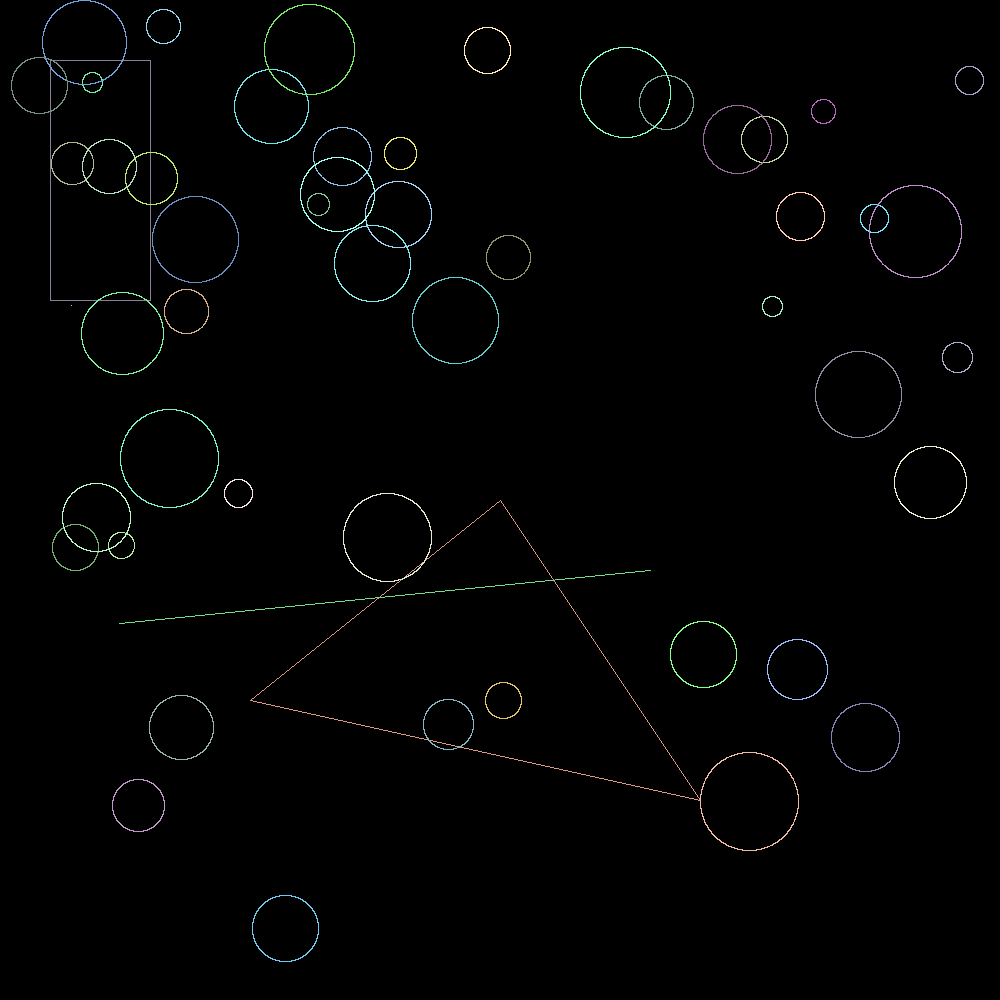
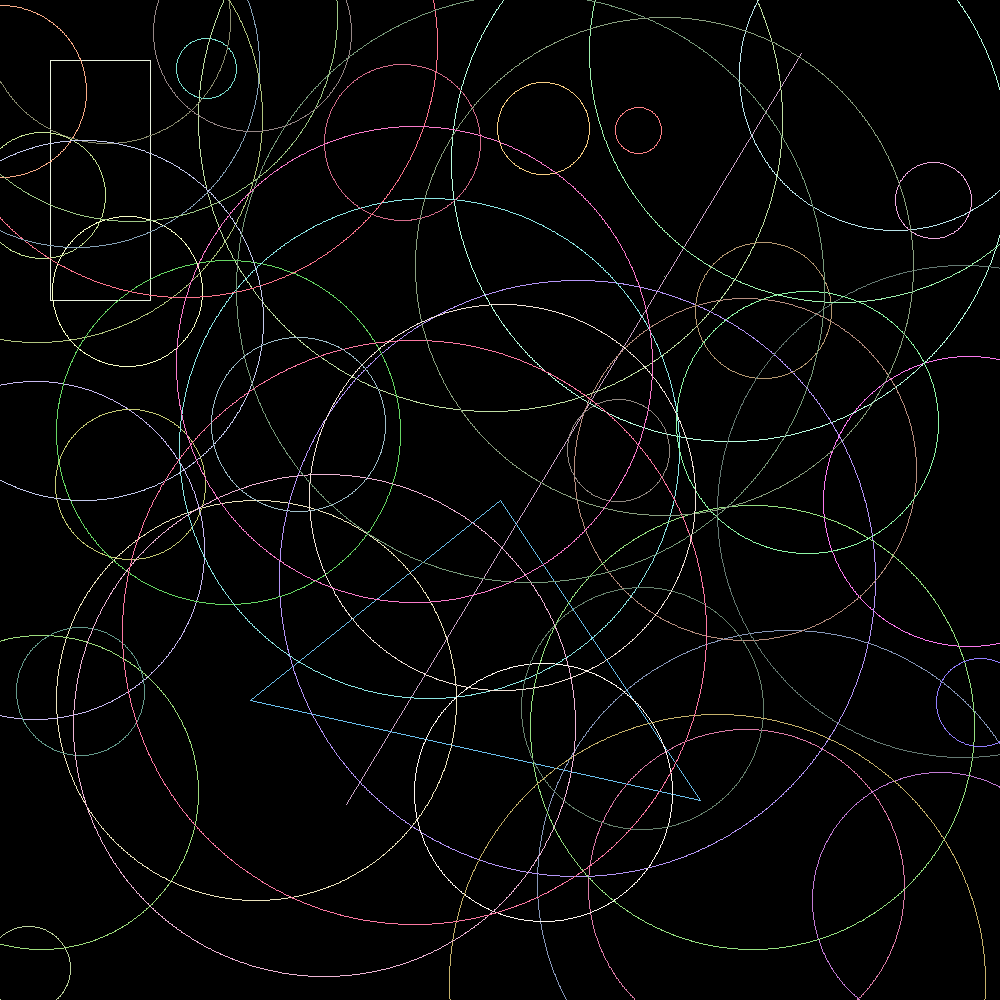
last version

diff --git a/src/geometrical_shapes.rs b/src/geometrical_shapes.rs
@@ -97,9 +97,9 @@ impl Circle {
     // Random circle positioned fully inside image
     pub fn random(width: i32, height: i32) -> Self {
         let mut rng = rand::thread_rng();
-        let radius = rng.gen_range(10..50);
-        let x = rng.gen_range(radius..(width - radius));
-        let y = rng.gen_range(radius..(height - radius));
+        let radius = rng.gen_range(10..300);
+        let x = rng.gen_range(0..width);
+        let y = rng.gen_range(0..height);
         Self {
             center: Point { x, y },
             radius,
@@ -110,21 +110,21 @@ impl Circle {
 impl Drawable for Circle {
     fn draw(&self, image: &mut Image) {
         let color = self.color();
-        let surface = (self.radius.pow(2) as f32) * std::f32::consts::PI;
-        let inc = 360.0 / surface;
+        let circumference = 2.0 * std::f32::consts::PI * self.radius as f32;
+        let inc = 360.0 / circumference;
         let mut i: f32 = 0.0;
 
-        let mut visited = HashSet::new();
+         let mut visited = HashSet::new();
 
         while i <= 360.0 {
             let angle = i.to_radians();
             let x = (self.center.x as f32 + self.radius as f32 * angle.cos()).round() as i32;
             let y = (self.center.y as f32 + self.radius as f32 * angle.sin()).round() as i32;
 
-            // only draw if this (x, y) wasn't drawn before
-            if visited.insert((x, y)) {
+            //  only draw if this (x, y) wasn't drawn before
+             if visited.insert((x, y)) {
                 image.display(x, y, color.clone());
-            }
+             }
 
             i += inc;
         }
